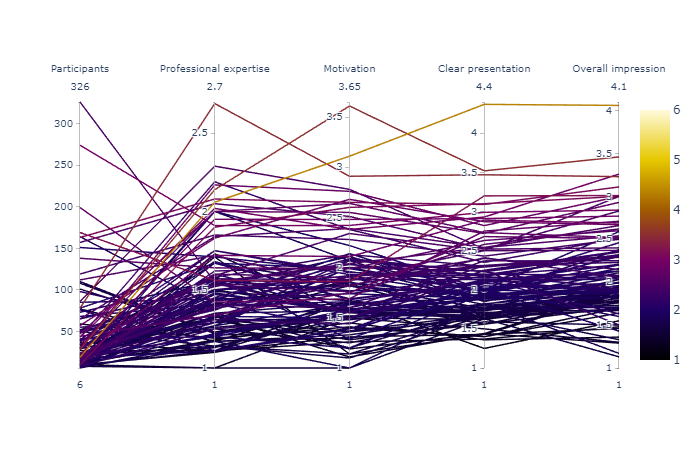
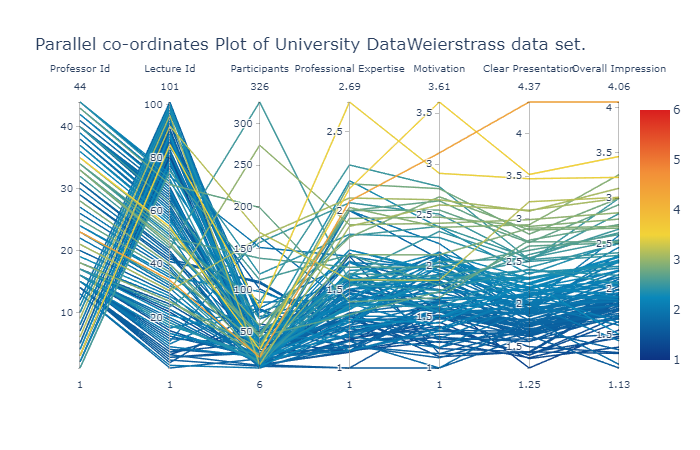
Optimize and final code changes.

diff --git a/Assignments/Assignment 4/Weierstrass-Prize.py b/Assignments/Assignment 4/Weierstrass-Prize.py
@@ -1,11 +1,10 @@
 import pandas as pd
-import plotly.graph_objs as go
+import plotly.graph_objects as go
 import plotly.express as px
 
-professor_id, lecture_id = ([], [])
 # Reading data from file start.
 dataFrame = pd.read_csv('DataWeierstrass.csv', delimiter=';')
-# print(len(dataFrame))
+professor_id, lecture_id = ([], [])
 for i in range(len(dataFrame)):
     professor_id.append(int(dataFrame['professor'][i].replace('prof', '')))
     lecture_id.append(int(dataFrame['lecture'][i].replace('lecture', '')))
@@ -13,37 +12,38 @@ new_professor_data = pd.DataFrame({'professor': professor_id})
 new_lecture_data = pd.DataFrame({'lecture': lecture_id})
 dataFrame.update(new_professor_data)
 dataFrame.update(new_lecture_data)
-# print(dataFrame)
 # Reading data from file end.
 
 
 # a) Visualize given data with a scatter plot matrix start.
 fig1 = px.scatter_matrix(dataFrame,
-                         dimensions=['lecture', 'participants', 'professional expertise', 'motivation', 'clear presentation', 'overall impression'],
-                         color='professor', symbol='professor', opacity=1,
+                         dimensions=['lecture', 'participants', 'professional expertise', 'motivation',
+                                     'clear presentation', 'overall impression'], color='professor',
+                         symbol='professor', opacity=1,
                          labels={'professor': 'Professor Id', 'lecture': 'Lecture Id', 'participants': 'Participants',
                                  'professional expertise': 'Professional Expertise', 'motivation': 'Motivation',
                                  'clear presentation': 'Clear Presentation', 'overall impression': 'Overall Impression'},
-                         title='Scatter plot Matrix of University DataWeierstrass data set.', width=1500, height=1500)
+                         title='Scatter-plot Matrix of University DataWeierstrass data set.', width=1500, height=1500)
 fig1.update_traces(diagonal_visible=False)
 fig1.show()
 # a) Visualize given data with a scatter plot matrix end.
 
-# # b) Visualize given data with parallel coordinates start.
-# fig2 = go.Figure(data=go.Parcoords(
-#     line=dict(color=dataFrame['clear presentation'],
-#               colorscale='Electric',
-#               showscale=True,
-#               cmin=1,
-#               cmax=6),
-#     dimensions=list([
-#         # dict(range=[1, 44], label='Professor', values=dataFrame['professor'].replace('prof', '')),
-#         # dict(range=[1, 101], label='Lecture', values=dataFrame['lecture']),
-#         dict(range=[6, 326], label='Participants', values=dataFrame['participants']),
-#         dict(range=[1, 2.70], label='Professional expertise', values=dataFrame['professional expertise']),
-#         dict(range=[1, 3.65], label='Motivation', values=dataFrame['motivation']),
-#         dict(range=[1, 4.40], label='Clear presentation', values=dataFrame['clear presentation']),
-#         dict(range=[1, 4.10], label='Overall impression', values=dataFrame['overall impression'])
-#     ])))
-# fig2.show()
+# b) Visualize given data with parallel coordinates start.
+fig2 = go.Figure(data=go.Parcoords(
+    dimensions=list([
+        dict(label='Professor Id', values=dataFrame['professor']),
+        dict(label='Lecture Id', values=dataFrame['lecture']),
+        dict(label='Participants', values=dataFrame['participants']),
+        dict(label='Professional Expertise', values=dataFrame['professional expertise']),
+        dict(label='Motivation', values=dataFrame['motivation']),
+        dict(label='Clear Presentation', values=dataFrame['clear presentation']),
+        dict(label='Overall Impression', values=dataFrame['overall impression'])]),
+    line=dict(color=dataFrame['clear presentation'],
+              colorscale='Portland',
+              showscale=True,
+              cmin=1,
+              cmid=3,
+              cmax=6)))
+fig2.update_layout(title='Parallel co-ordinates Plot of University DataWeierstrass data set.')
+fig2.show()
 # b) Visualize given data with parallel coordinates end.
